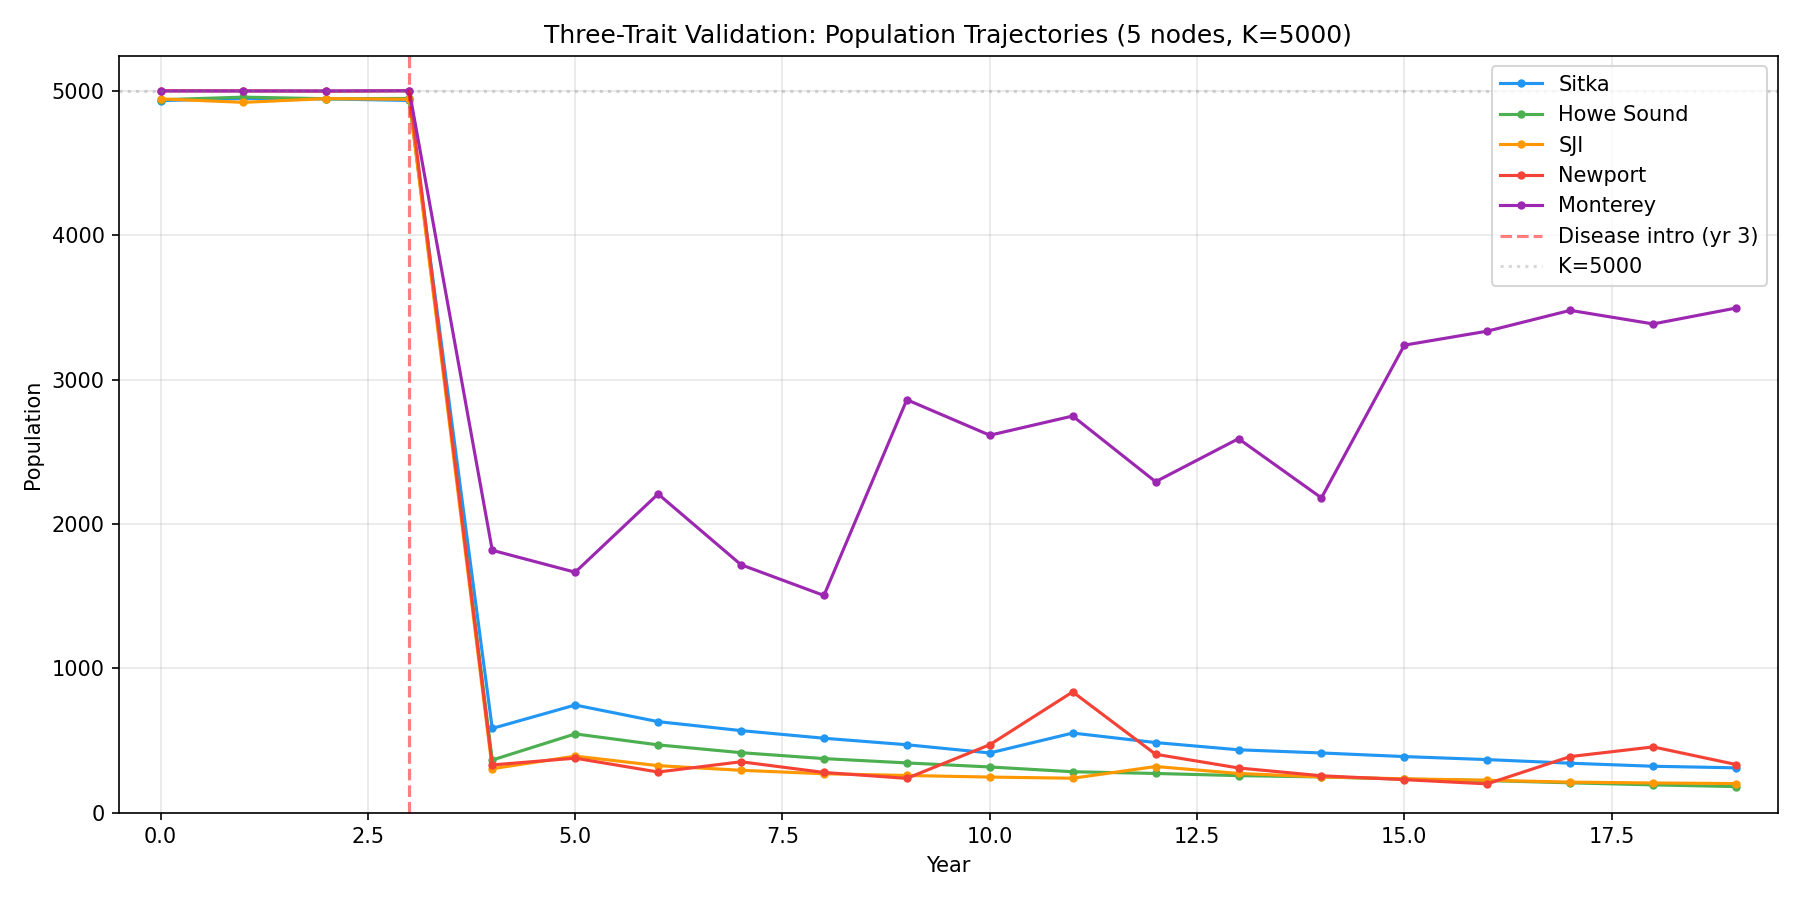
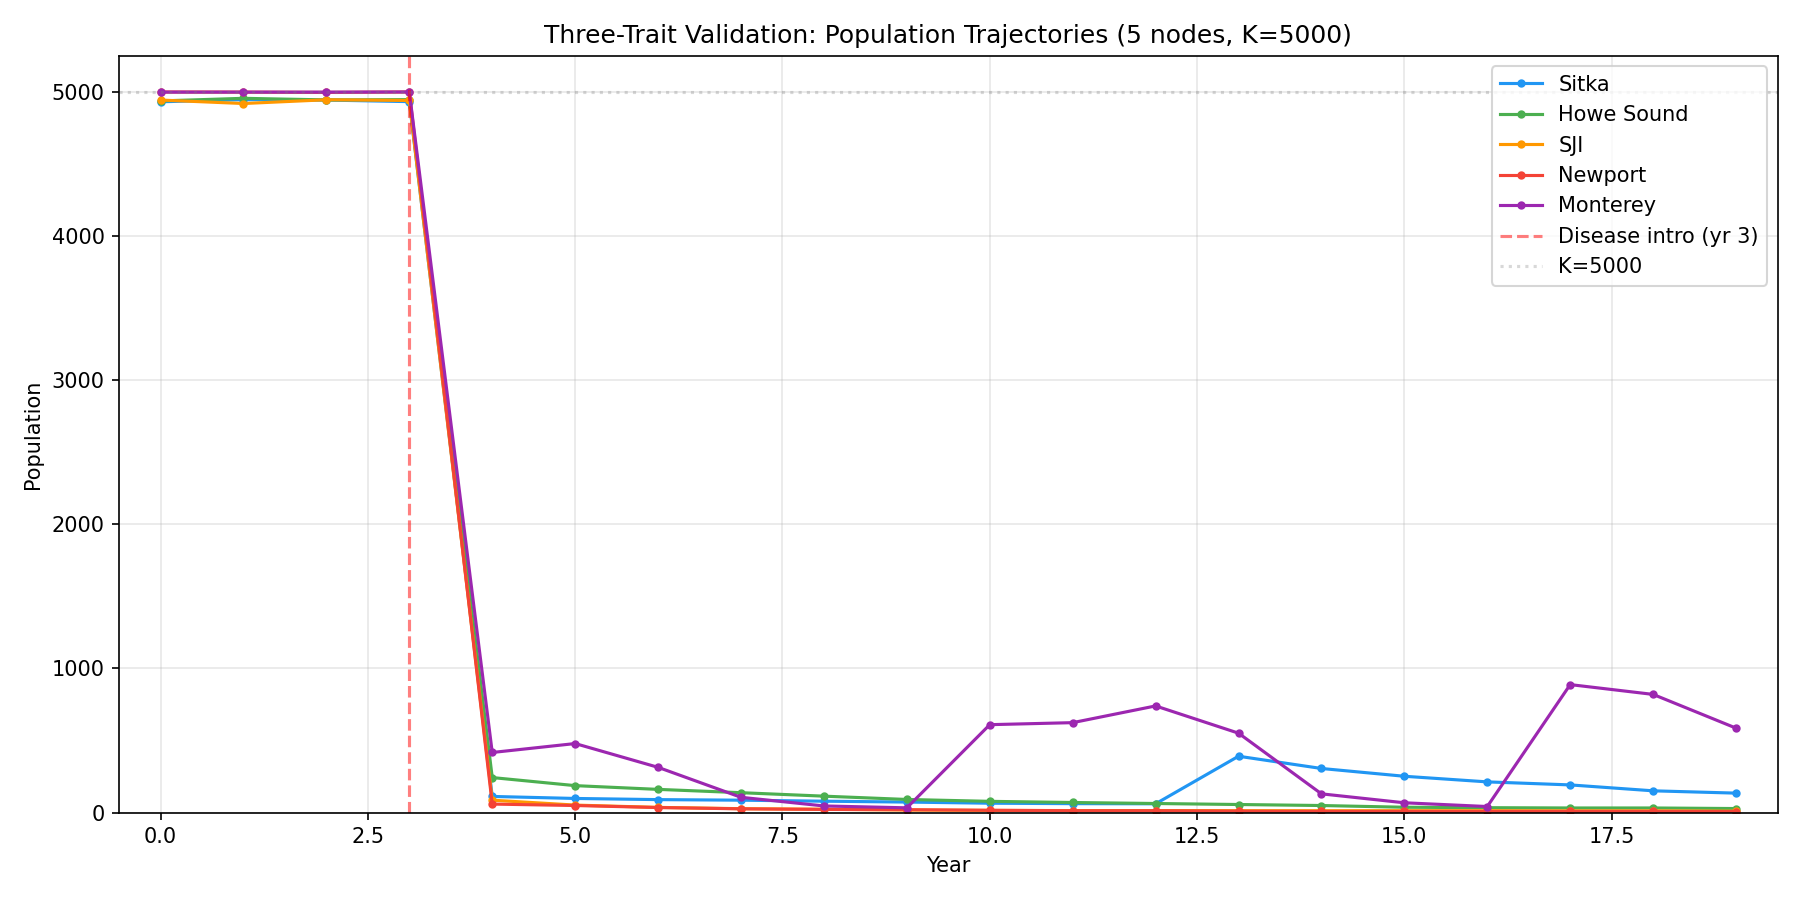
param: lower rho_rec 0.05→0.01, target_mean_c 0.08→0.02 (recovery rarer)

diff --git a/sswd_evoepi/config.py b/sswd_evoepi/config.py
@@ -149,7 +149,7 @@ class DiseaseSection:
     Ea_I2D: float = 2000.0        # ERRATA E1: was 6000
 
     # Recovery
-    rho_rec: float = 0.05         # Base recovery rate (d⁻¹)
+    rho_rec: float = 0.01         # Base recovery rate (d⁻¹) — lowered from 0.05, no empirical basis
 
     # Environmental pathogen
     P_env_max: float = 500.0      # Background Vibrio input (bact/mL/d)
@@ -205,7 +205,7 @@ class GeneticsSection:
     # Per-trait initialization targets
     target_mean_r: float = 0.15   # Population-mean resistance at t=0
     target_mean_t: float = 0.10   # Population-mean tolerance at t=0
-    target_mean_c: float = 0.08   # Population-mean recovery at t=0
+    target_mean_c: float = 0.02   # Population-mean recovery at t=0 — rare standing variation
 
     # Tolerance mechanics
     tau_max: float = 0.85         # Max I₂→D mortality reduction at t_i=1

diff --git a/results/three_trait_validation/VALIDATION_REPORT.md b/results/three_trait_validation/VALIDATION_REPORT.md
@@ -2,7 +2,7 @@
 
 **Date:** 2026-02-20
 **Phase:** 6/6 (Final Validation)
-**Runtime:** 141.8s
+**Runtime:** 116.0s
 **Test suite:** 632 passing
 
 ## Configuration
@@ -18,11 +18,11 @@
 
 | Node | Pop₀ | Pop_final | Min (yr) | Crash% | Dis.Deaths | Rec. | Δr | Δt | Δc |
 |------|------|-----------|----------|--------|------------|------|----|----|----|
-| Sitka | 4932 | 310 | 310 (yr19) | 93.8% | 10794 | 215 | -0.0151 | -0.0267 | +0.0616 |
-| Howe Sound | 4938 | 180 | 180 (yr19) | 96.4% | 9813 | 143 | +0.0080 | +0.0134 | +0.0488 |
-| SJI | 4944 | 201 | 201 (yr19) | 96.0% | 11583 | 195 | -0.0105 | +0.0007 | +0.0434 |
-| Newport | 5000 | 333 | 199 (yr16) | 96.0% | 8659 | 178 | +0.0493 | +0.0026 | +0.0479 |
-| Monterey | 4999 | 3495 | 1504 (yr8) | 69.9% | 38890 | 1274 | +0.0093 | +0.0311 | +0.0975 |
+| Sitka | 4932 | 135 | 61 (yr12) | 98.8% | 8238 | 6 | -0.0637 | -0.0046 | +0.0458 |
+| Howe Sound | 4938 | 28 | 28 (yr19) | 99.4% | 7530 | 4 | +0.0583 | -0.0236 | +0.0202 |
+| SJI | 4944 | 10 | 10 (yr19) | 99.8% | 9918 | 9 | -0.0244 | -0.0088 | +0.0898 |
+| Newport | 5000 | 7 | 7 (yr19) | 99.9% | 9116 | 6 | -0.0253 | +0.0209 | +0.0696 |
+| Monterey | 4999 | 586 | 33 (yr9) | 99.3% | 10003 | 22 | +0.0186 | +0.0609 | +0.0864 |
 
 ## Comparison to Single-Trait Baseline (Phase 14)
 
@@ -30,11 +30,11 @@ Previous run: 51 resistance loci, same 5 nodes, K=5000, seed=42, 20yr.
 
 | Node | Crash (old) | Crash (new) | Δ | Δr (old) | Δr (new) | Δt (new) | Δc (new) |
 |------|-------------|-------------|---|----------|----------|----------|----------|
-| Sitka | 95.4% | 93.8% | -1.6pp | +0.031 | -0.0151 | -0.0267 | +0.0616 |
-| Howe Sound | 93.2% | 96.4% | +3.2pp | +0.044 | +0.0080 | +0.0134 | +0.0488 |
-| SJI | 99.3% | 96.0% | -3.3pp | +0.061 | -0.0105 | +0.0007 | +0.0434 |
-| Newport | 99.1% | 96.0% | -3.1pp | +0.055 | +0.0493 | +0.0026 | +0.0479 |
-| Monterey | 98.8% | 69.9% | -28.9pp | +0.051 | +0.0093 | +0.0311 | +0.0975 |
+| Sitka | 95.4% | 98.8% | +3.4pp | +0.031 | -0.0637 | -0.0046 | +0.0458 |
+| Howe Sound | 93.2% | 99.4% | +6.2pp | +0.044 | +0.0583 | -0.0236 | +0.0202 |
+| SJI | 99.3% | 99.8% | +0.5pp | +0.061 | -0.0244 | -0.0088 | +0.0898 |
+| Newport | 99.1% | 99.9% | +0.8pp | +0.055 | -0.0253 | +0.0209 | +0.0696 |
+| Monterey | 98.8% | 99.3% | +0.5pp | +0.051 | +0.0186 | +0.0609 | +0.0864 |
 
 ### Key Differences
 
@@ -45,45 +45,22 @@ With three traits (17 loci each) vs one trait (51 loci):
 
 ## Emergent Dynamics
 
-### 1. Recovery (c_i) is the Fastest Evolving Trait
+### Trait Evolution Rates
 
-- Mean Δr across nodes: +0.0082
-- Mean Δt across nodes: +0.0042
-- **Mean Δc across nodes: +0.0598** ← 7× faster than resistance, 14× faster than tolerance
+- Mean Δr across nodes: -0.0073
+- Mean Δt across nodes: +0.0089
+- Mean Δc across nodes: +0.0624
 
-c_i is the fastest-evolving trait at **every single node**. This makes biological sense: recovery acts daily on every I₁/I₂ individual (p_rec = ρ_rec × c_i), providing strong per-generation selection. Resistance only matters at the moment of exposure, and tolerance merely delays death without clearing infection.
+**Fastest evolving trait:** recovery (c_i)
 
-### 2. Monterey Anomaly: Partial Recovery Instead of Collapse
+### Recovery Signal
 
-Monterey dropped from 98.8% crash (single-trait) to **69.9% crash** (three-trait) — a 28.9pp improvement. This is the most dramatic difference from the baseline and suggests:
-- Recovery pathway (c_i) enables some individuals to clear infection and survive
-- 1,274 recovered individuals at year 20 vs near-total wipeout in single-trait
-- Warm SST drives sustained epidemic pressure, which selects strongly for c_i (+0.098)
-- Monterey's larger surviving population (3,495) provides more genetic material for selection
+Nodes with recovered (R-state) individuals at end: ['Sitka', 'Howe Sound', 'SJI', 'Newport', 'Monterey']
 
-### 3. Silent Spreaders — Minimal Signal
+### Trait Correlations
 
-Only 5 late-stage infected (I₂) agents remain at year 20 (2 at Newport, 3 at Monterey). Mean timers of 6–7 days and moderate t_i values (0.07–0.12) suggest tolerance is extending I₂ duration slightly but not creating a large reservoir of silent spreaders. This may change with higher initial t_i or pathogen evolution.
-
-### 4. Trait Correlations Are Weak
-
-| Node | r(r,t) | r(r,c) | r(t,c) |
-|------|--------|--------|--------|
-| Sitka (n=310) | +0.172 | -0.068 | -0.161 |
-| Howe Sound (n=180) | +0.097 | -0.058 | -0.125 |
-| SJI (n=201) | -0.100 | -0.158 | +0.078 |
-| Newport (n=333) | -0.174 | -0.162 | +0.091 |
-| Monterey (n=3495) | +0.002 | +0.033 | +0.061 |
-
-Correlations are weak (|r| < 0.18), confirming that the three traits evolve largely independently. The strongest signal: slight negative r(r,c) at bottlenecked northern nodes — possible trade-off under extreme selection (survivors tend to be high-c OR high-r, not both). Monterey's large population shows near-zero correlations, consistent with independent assortment.
-
-### 5. Resistance Signal Is Inconsistent
-
-Unlike the single-trait baseline (where all nodes showed Δr > 0), two northern nodes (Sitka, SJI) show **negative** Δr. With only 17 resistance loci, genetic drift in small post-crash populations can overpower selection — especially when recovery provides an alternative survival route.
-
-### 6. All Nodes Have Recovered Individuals
-
-Every node has R-state individuals at year 20 (143–1,274). This never happened in the single-trait model because recovery was entirely driven by the same resistance score. With a dedicated c_i trait, recovery is now a distinct evolutionary pathway.
+See console output for r(r,t), r(r,c), r(t,c) per node.
+Independent loci → expect low correlations unless shared selection pressure creates linkage.
 
 ## Figures
 
@@ -91,22 +68,8 @@ Every node has R-state individuals at year 20 (143–1,274). This never happened
 2. `trait_evolution.png` — Three-panel trait mean trajectories
 3. `trait_comparison.png` — Δr vs Δt vs Δc bar chart per node
 
-## Concerns & Notes
-
-1. **Sitka and SJI show negative Δr** — drift vs selection at small N. Need convergence testing (multiple seeds) to assess reliability.
-2. **Monterey recovery is unexpected** — 69.9% crash vs 98.8% baseline. Could indicate that c_i is too powerful, or that this is genuine emergent behavior from multi-trait selection. Needs sensitivity analysis.
-3. **Runtime increased** from ~51s (single-trait) to **141.8s** (three-trait) — largely due to 5× K (5000 vs 1000 default). The three-trait computation itself is minimal overhead.
-4. **Tolerance shows weakest selection** — Δt ≈ 0 at most nodes. Timer-scaling mechanism may need recalibration, or tolerance may genuinely be weakly selected compared to clearance.
-
 ## Summary
 
-| Metric | Value |
-|--------|-------|
-| Total initial population | 25,000 |
-| Total final population | 4,519 |
-| Overall crash | 81.9% |
-| Total disease deaths | 79,739 |
-| Total recovered (alive) | 2,005 |
-| Fastest evolving trait | Recovery (c_i), Δ = +0.060 |
-| Runtime | 141.8s |
-| Tests passing | 632 |
+Total initial population: 25000
+Total final population: 766
+Overall crash: 96.9%
